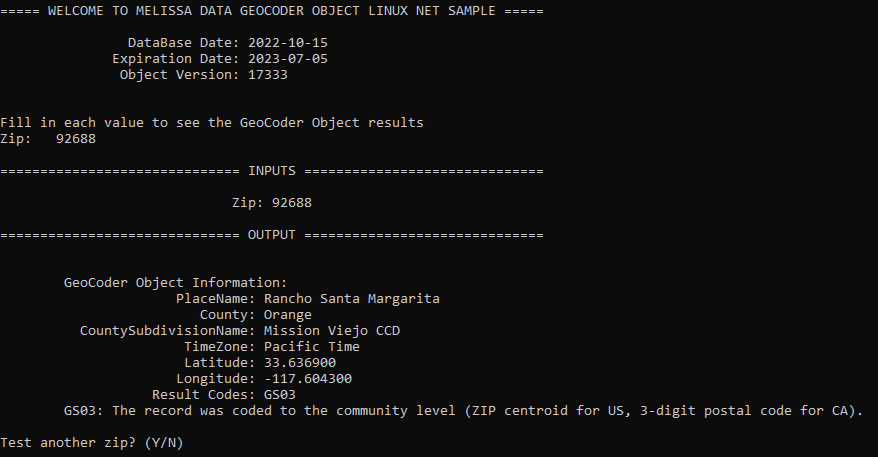
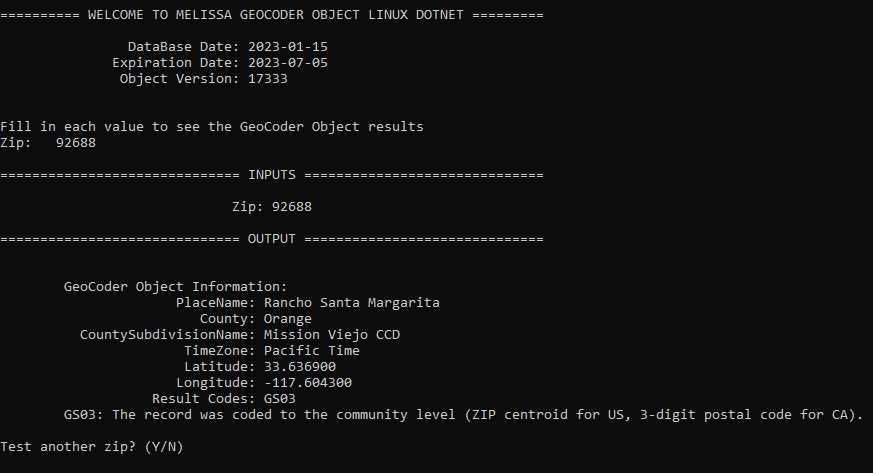
Commit C# Dotnet code for GeoCoder Object with release notes

diff --git a/MelissaGeoCoderObjectLinuxDotnet/Program.cs b/MelissaGeoCoderObjectLinuxDotnet/Program.cs
@@ -4,7 +4,7 @@ using System.Reflection;
 using MelissaData;
 using System.Net;
 
-namespace MelissaDataGeoCoderObjectLinuxNETSample
+namespace MelissaGeoCoderObjectLinuxDotnet
 {
   class Program
   {
@@ -49,8 +49,8 @@ namespace MelissaDataGeoCoderObjectLinuxNETSample
 
     static void RunAsConsole(string license, string testZip, string dataPath)
     {
-      Console.WriteLine("\n\n===== WELCOME TO MELISSA DATA GEOCODER OBJECT LINUX NET SAMPLE =====\n");
-
+      Console.WriteLine("\n\n========== WELCOME TO MELISSA GEOCODER OBJECT LINUX DOTNET =========\n");
+     
       GeoObject geoObject = new GeoObject(license, dataPath);
 
       bool shouldContinueRunning = true;
@@ -131,16 +131,16 @@ namespace MelissaDataGeoCoderObjectLinuxNETSample
           }
         }
       }
-      Console.WriteLine("\n========= THANK YOU FOR USING MELISSA DATA NET OBJECT ========\n");
+      Console.WriteLine("\n========= THANK YOU FOR USING MELISSA DOTNET OBJECT ========\n");
     }
   }
 
   class GeoObject
   {
-    // Path to geocoder object data files (.dat, etc)
+    // Path to GeoCoder Object data files (.dat, etc)
     string dataFilePath;
 
-    // Create instance of Melissa Data GeoCoder Object
+    // Create instance of Melissa GeoCoder Object
     public mdGeo mdGeoObj = new mdGeo();
 
     public GeoObject(string license, string dataPath)
@@ -168,7 +168,7 @@ namespace MelissaDataGeoCoderObjectLinuxNETSample
       Console.WriteLine($"              Expiration Date: {mdGeoObj.GetLicenseExpirationDate()}");
 
       /**
-       * This number should match with file properties of the Melissa Data Object binary file.
+       * This number should match with file properties of the Melissa Object binary file.
        * If TEST appears with the build number, there may be a license key issue.
        */
       Console.WriteLine($"               Object Version: {mdGeoObj.GetBuildNumber()}\n");
@@ -182,8 +182,8 @@ namespace MelissaDataGeoCoderObjectLinuxNETSample
       mdGeoObj.FindGeo();
       data.ResultCodes = mdGeoObj.GetResults();
 
-      // ResultsCodes explain any issues geoCoder object has with the object.
-      // List of result codes for GeoCoder object
+      // ResultsCodes explain any issues GeoCoder Object has with the object.
+      // List of result codes for GeoCoder Object
       // https://wiki.melissadata.com/?title=Result_Code_Details#GeoCoder_Object
     }
   }

diff --git a/README.md b/README.md
@@ -1,8 +1,12 @@
-# Melissa Data GeoCoder Object Linux Net Sample
+# Melissa - GeoCoder Object Linux Dotnet
 
 ## Purpose
 
-This is a sample of the Melissa Data GeoCoder Object using C#
+This code showcases the Melissa GeoCoder Object using C#.
+
+Please feel free to copy or embed this code to your own project. Happy coding!
+
+For the latest Melissa GeoCoder Object release notes, please visit: https://releasenotes.melissa.com/on-premise-api/geocoder-object/
 
 The console will ask the user for:
 - Zip Code
@@ -35,7 +39,7 @@ For Canada:
 
 #### libmdGeo.so
 
-This is the code of the Melissa Data Object.
+This is the code of the Melissa Object.
 
 #### Data File(s)
   - mdGeoCode.db3
@@ -111,19 +115,19 @@ Melissa Updater is a CLI application allowing the user to update their Melissa a
 	- It will handle all of the data download/path and dll(s) for you.
 2. If you already have the latest DQS Release (zip), you can find the data file(s) and dll(s) in there
     - Use the location of where you copied/installed the data and update the "DataPath" variable in the bash script.
-    - Copy .so file(s) mentioned above into the `MelissaDataGeoCoderObjectLinuxNETSample` project folder.
+    - Copy .so file(s) mentioned above into the `MelissaGeoCoderObjectLinuxDotnet` project folder.
 
 ----------------------------------------
 
 #### Configure Target Framework
 
-Depending on your target .NET framework, you may need to configure the bash script. In order to do this, open up the `MelissaDataGeoCoderObjectLinuxNETSample.sh` for editing, proceed to the bottom of the script where you will find this section of code.
+Depending on your target .NET framework, you may need to configure the bash script. In order to do this, open up the `MelissaGeoCoderObjectLinuxDotnet.sh` for editing, proceed to the bottom of the script where you will find this section of code.
 
 Default set for .NET 7.0
 ```
-dotnet publish -f="net7.0" -c Release -o $BuildPath MelissaDataGeoCoderObjectLinuxNETSample/MelissaDataGeoCoderObjectLinuxNETSample.csproj
-#dotnet publish -f="net5.0" -c Release -o $BuildPath MelissaDataGeoCoderObjectLinuxNETSample/MelissaDataGeoCoderObjectLinuxNETSample.csproj
-#dotnet publish -f="netcoreapp3.1" -c Release -o $BuildPath MelissaDataGeoCoderObjectLinuxNETSample/MelissaDataGeoCoderObjectLinuxNETSample.csproj
+dotnet publish -f="net7.0" -c Release -o $BuildPath MelissaGeoCoderObjectLinuxDotnet/MelissaGeoCoderObjectLinuxDotnet.csproj
+#dotnet publish -f="net5.0" -c Release -o $BuildPath MelissaGeoCoderObjectLinuxDotnet/MelissaGeoCoderObjectLinuxDotnet.csproj
+#dotnet publish -f="netcoreapp3.1" -c Release -o $BuildPath MelissaGeoCoderObjectLinuxDotnet/MelissaGeoCoderObjectLinuxDotnet.csproj
 ```
 The target framework is specified with the -f flag found in the command line. If you wish to use any version besides .NET 7.0, please uncomment the line containing that framework and comment out the line containing the .NET 7.0 framework (# to comment).
 
@@ -131,7 +135,7 @@ The target framework is specified with the -f flag found in the command line. If
 
 To be able to run the bash script, you must first make it an executable using the command:
 
-`chmod +x MelissaDataGeoCoderObjectLinuxNETSample.sh`
+`chmod +x MelissaGeoCoderObjectLinuxDotnet.sh`
 
 As an indicator, the filename will change colors once it becomes an executable.
 
@@ -145,7 +149,7 @@ Parameters:
 
   This is convenient when you want to get results for a specific zip code in one run instead of testing multiple zip codes in interactive mode.
 
-- -l or --license (optional): a license string to test the geocoder object
+- -l or --license (optional): a license string to test the GeoCoder object
 - -q or --quiet (optional): add to the command if you do not want to get any console output from the Melissa Updater.
 
 When you have modified the script to match your data location, let's run the script.
@@ -154,23 +158,23 @@ There are two modes:
 
 	The script will prompt the user for a zip code, then use the provided zip to test GeoCoder Object. For example:
 	```
-	$ ./MelissaDataGeoCoderObjectLinuxNETSample.sh
+	$ ./MelissaGeoCoderObjectLinuxDotnet.sh
 	```
 	For quiet mode:
 	```
-	$ ./MelissaDataGeoCoderObjectLinuxNETSample.sh --quiet
+	$ ./MelissaGeoCoderObjectLinuxDotnet.sh --quiet
 	```
 - Command Line
 
     You can pass a zip code in the ```--zip``` parameter and a license string in ```--license``` parameter to test GeoCoder Object. For example:
     ```
-    $ ./MelissaDataGeoCoderObjectLinuxNETSample.sh --zip "92688"
-    $ ./MelissaDataGeoCoderObjectLinuxNETSample.sh --zip "92688" --license "<your_license_string>"
+    $ ./MelissaGeoCoderObjectLinuxDotnet.sh --zip "92688"
+    $ ./MelissaGeoCoderObjectLinuxDotnet.sh --zip "92688" --license "<your_license_string>"
     ```
     For quiet mode:
     ```
-    $ ./MelissaDataGeoCoderObjectLinuxNETSample.sh --zip "92688" --quiet
-    $ ./MelissaDataGeoCoderObjectLinuxNETSample.sh --zip "92688" --license "<your_license_string>" --quiet
+    $ ./MelissaGeoCoderObjectLinuxDotnet.sh --zip "92688" --quiet
+    $ ./MelissaGeoCoderObjectLinuxDotnet.sh --zip "92688" --license "<your_license_string>" --quiet
     ```
 This is the expected output from a successful setup for interactive mode:
 
@@ -178,7 +182,7 @@ This is the expected output from a successful setup for interactive mode:
 
 ## Troubleshooting
 
-Troubleshooting for errors found while running your sample program.
+Troubleshooting for errors found while running your program.
 
 ### C# Errors:
 
@@ -191,8 +195,6 @@ Troubleshooting for errors found while running your sample program.
 
 ## Contact Us
 
-For free technical support, please call us at 800-MELISSA ext. 4
-(800-635-4772 ext. 4) or email us at tech@MelissaData.com.
+For free technical support, please call us at 800-MELISSA ext. 4 (800-635-4772 ext. 4) or email us at tech@melissa.com.
 
-To purchase this product, contact Melissa Data sales department at
-800-MELISSA ext. 3 (800-635-4772 ext. 3).
+To purchase this product, contact the Melissa sales department at 800-MELISSA ext. 3 (800-635-4772 ext. 3).

diff --git a/LICENSE.md b/LICENSE.md
@@ -1,0 +1,21 @@
+MIT License
+
+Copyright (c) Melissa Data Corporation
+
+Permission is hereby granted, free of charge, to any person obtaining a copy
+of this software and associated documentation files (the "Software"), to deal
+in the Software without restriction, including without limitation the rights
+to use, copy, modify, merge, publish, distribute, sublicense, and/or sell
+copies of the Software, and to permit persons to whom the Software is
+furnished to do so, subject to the following conditions:
+
+The above copyright notice and this permission notice shall be included in all
+copies or substantial portions of the Software.
+
+THE SOFTWARE IS PROVIDED "AS IS", WITHOUT WARRANTY OF ANY KIND, EXPRESS OR
+IMPLIED, INCLUDING BUT NOT LIMITED TO THE WARRANTIES OF MERCHANTABILITY,
+FITNESS FOR A PARTICULAR PURPOSE AND NONINFRINGEMENT. IN NO EVENT SHALL THE
+AUTHORS OR COPYRIGHT HOLDERS BE LIABLE FOR ANY CLAIM, DAMAGES OR OTHER
+LIABILITY, WHETHER IN AN ACTION OF CONTRACT, TORT OR OTHERWISE, ARISING FROM,
+OUT OF OR IN CONNECTION WITH THE SOFTWARE OR THE USE OR OTHER DEALINGS IN THE
+SOFTWARE.
